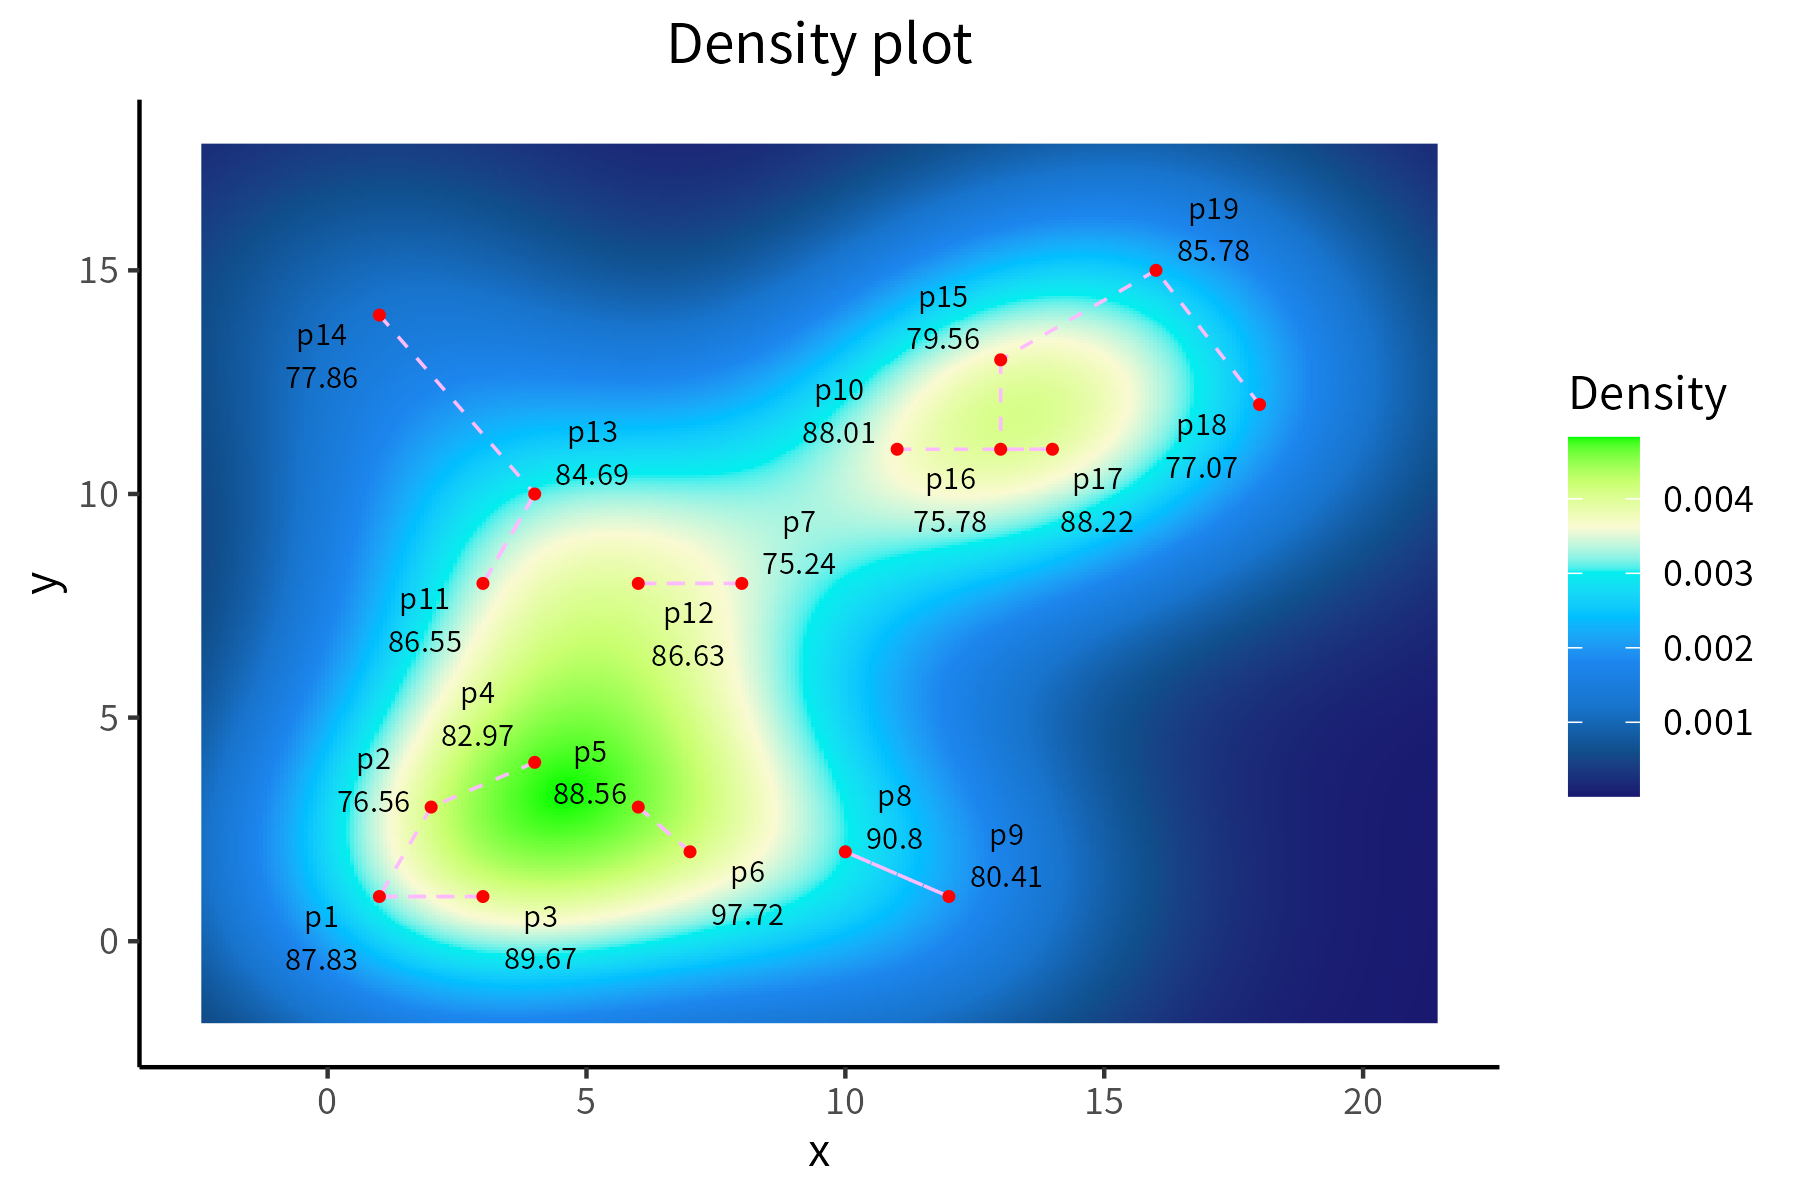
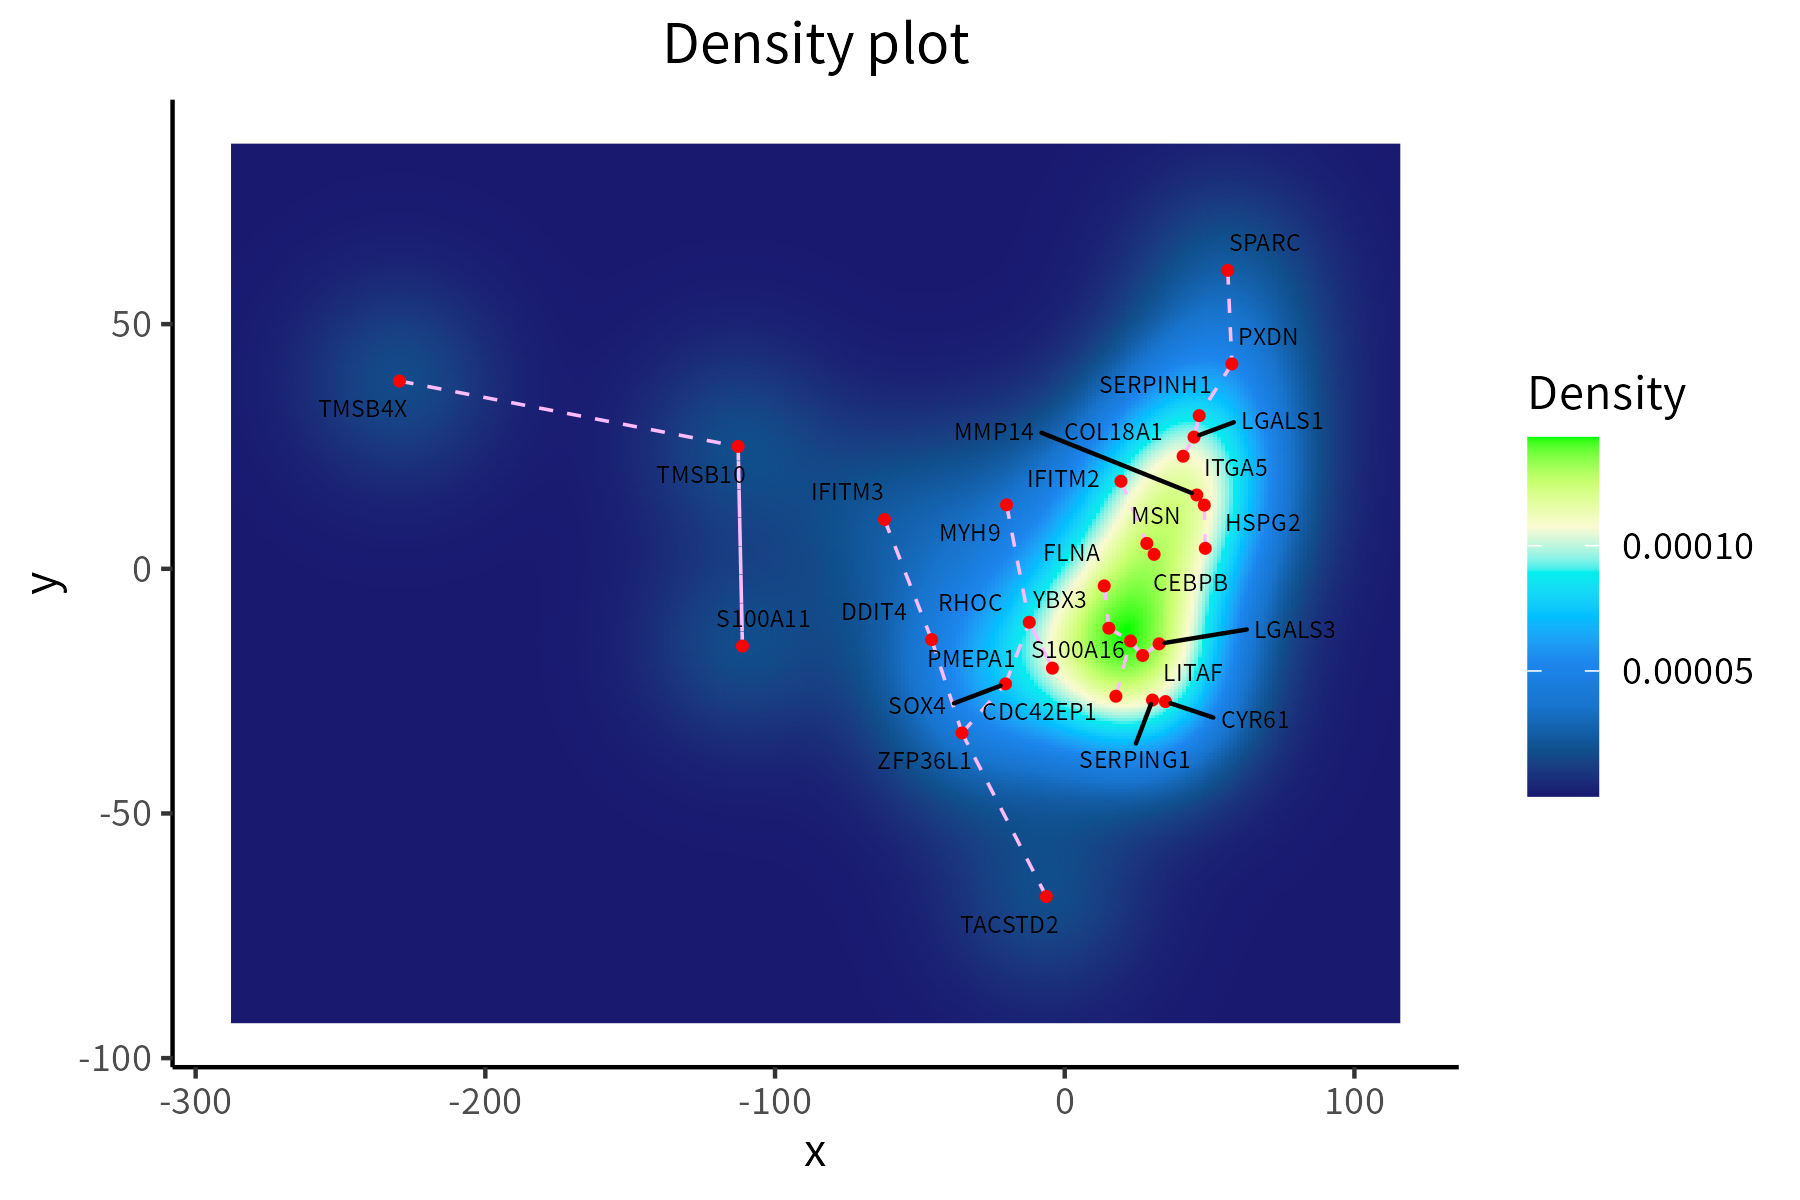
Edited densityPlot and README

diff --git a/README.md b/README.md
@@ -35,8 +35,12 @@ from the HBP dataset:
 
 ![](man/figures/correlation_plot.png)
 
-- `densityPlot`: Create a density plot for a set of points, optionally displaying
-segements between each point and its nearest neighbor.
+### densityPlot
+
+This function creates a density plot for a set of points, optionally displaying
+segements between each point and its nearest neighbor. We use expression
+data from the HBP dataset, subjected to a distance matrix calculation and
+subsequent MDS reduction in order to generate the coordinates of the points:
 
 ![](man/figures/density_plot.png)
 
